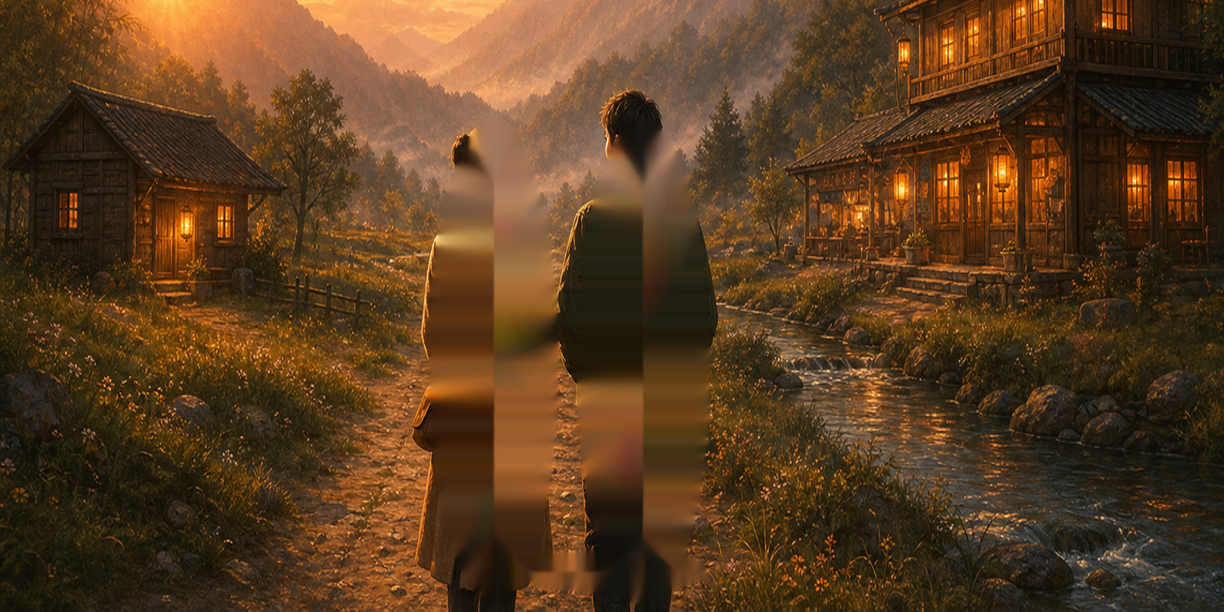
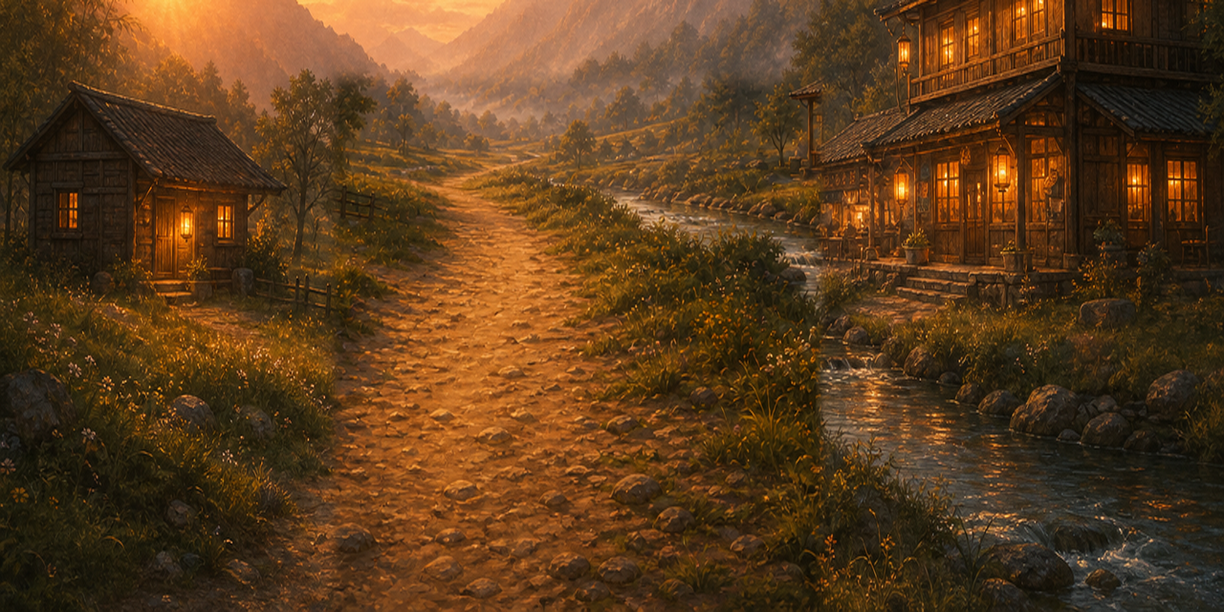
Replace the cover pair on the valley bed with path and grass.
The 302-crop still held the poster pair and scaled them into the play
frame. A person-shaped clone left ghosts and a stretched brown pillar.
Hard-fill one landscape corridor from a dusk path plate instead.

Changed region(s): [[0.2484, 0.1242, 0.683, 1.0]]

diff --git a/godot/project.test.ts b/godot/project.test.ts
@@ -232,6 +232,9 @@ test("Valley look is one dusk illustration, not DST stickers", () => {
   assert.match(bedPaint, /bed-valley/);
   assert.match(bedPaint, /CROP_Y0 = 302/);
   assert.match(bedPaint, /PATH_LO, PATH_HI/);
+  assert.match(bedPaint, /valley-path-fill/);
+  assert.match(bedPaint, /CORRIDOR_X0, CORRIDOR_X1/);
+  assert.ok(existsSync("tools/ref/valley-path-fill.png"));
   assert.doesNotMatch(bedPaint, /save\(.*cover-valley/);
   assert.doesNotMatch(bedPaint, /resize\(\(x1 - x0/);
   assert.doesNotMatch(valley, /floor-valley|ground-valley|_bend\(/);

diff --git a/tools/paint_valley_bed.py b/tools/paint_valley_bed.py
@@ -4,92 +4,66 @@ from __future__ import annotations
 
 from pathlib import Path
 
-import cv2
 import numpy as np
-from PIL import Image, ImageFilter
+from PIL import Image
 
 ROOT = Path(__file__).resolve().parents[1]
 COVER = ROOT / "godot/assets/art/cover-valley.png"
+FILL = ROOT / "tools/ref/valley-path-fill.png"
 OUT = ROOT / "godot/assets/art/bed-valley.png"
 
 # World size (TILE 36 × 34×17).
 W, H = 1224, 612
 # Below 并肩山谷 and 「两部 iPhone · 同一座山」. Lodge roof stays in frame.
 CROP_Y0 = 302
-# Same-row dirt path, left of the pair. Never a resized plate.
-PATH_LO, PATH_HI = 220, 448
+# Same-row dirt / grass used to grade the corridor. Never a resized plate.
+PATH_LO, PATH_HI = 220, 360
+BANK_LO, BANK_HI = 824, 940
+# One landscape hole. Not two people ellipses. Left of the coats, right of the bag.
+CORRIDOR_X0, CORRIDOR_X1 = 340, 868
+CORRIDOR_Y0 = 344
 
 
-def _people_mask(h: int, w: int) -> np.ndarray:
-    """Tight 暖 / 松 / 点灯进谷. Leave a path gap between the coats."""
-    yy, xx = np.ogrid[:h, :w]
-    warm = ((xx - 516) / 66.0) ** 2 + ((yy - 548) / 162.0) ** 2 <= 1.0
-    pine = ((xx - 672) / 68.0) ** 2 + ((yy - 550) / 164.0) ** 2 <= 1.0
-    bag = ((xx - 482) / 24.0) ** 2 + ((yy - 556) / 46.0) ** 2 <= 1.0
-    cta = ((xx - 640) / 96.0) ** 2 + ((yy - 692) / 13.0) ** 2 <= 1.0
-    return warm | pine | bag | cta
+def _smoothstep(t: np.ndarray) -> np.ndarray:
+    t = np.clip(t, 0.0, 1.0)
+    return t * t * (3.0 - 2.0 * t)
 
 
-def _dilate(mask: np.ndarray, radius: int = 2) -> np.ndarray:
-    img = Image.fromarray((mask.astype(np.uint8) * 255), "L")
-    img = img.filter(ImageFilter.MaxFilter(radius * 2 + 1))
-    return np.asarray(img) > 127
-
-
-def _safe_path(mask_row: np.ndarray, w: int) -> np.ndarray:
-    cols = [x for x in range(PATH_LO, min(PATH_HI, w)) if not mask_row[x]]
-    if len(cols) < 8:
-        cols = [x for x in range(180, min(PATH_HI, w)) if not mask_row[x]]
-    return np.asarray(cols, dtype=np.int32)
-
-
-def _runs(xs: np.ndarray) -> list[tuple[int, int]]:
-    out: list[tuple[int, int]] = []
-    start = int(xs[0])
-    prev = start
-    for raw in xs[1:]:
-        x = int(raw)
-        if x == prev + 1:
-            prev = x
-            continue
-        out.append((start, prev + 1))
-        start = x
-        prev = x
-    out.append((start, prev + 1))
-    return out
-
-
-def lift_cover(rgb: np.ndarray) -> np.ndarray:
-    """Same-y path seed, then NS inpaint. No resized plate, no Telea smear."""
+def lift_cover(rgb: np.ndarray, fill: np.ndarray) -> np.ndarray:
+    """Hard-replace the pair with dusk path/grass. Feather only into real land."""
+    out = rgb.astype(np.float32)
+    src = fill.astype(np.float32)
     h, w = rgb.shape[:2]
-    core = _dilate(_people_mask(h, w), 2)
-    seeded = rgb.copy()
-    for y in range(h):
-        bad = np.flatnonzero(core[y])
-        if bad.size == 0:
-            continue
-        safe = _safe_path(core[y], w)
-        for x0, x1 in _runs(bad):
-            width = x1 - x0
-            src0 = x0 - width
-            src1 = x0
-            if src0 >= 0 and not np.any(core[y, src0:src1]):
-                chunk = rgb[y, src0:src1].astype(np.float32)
-            elif safe.size >= width:
-                chunk = rgb[y, safe[-width:]].astype(np.float32)
-            elif safe.size:
-                t = np.linspace(0, safe.size - 1, width)
-                chunk = rgb[y, safe[np.round(t).astype(np.int32)]].astype(np.float32)
-            else:
-                continue
-            edge0 = max(0, x0 - 10)
-            border = rgb[y, edge0:x0].astype(np.float32)
-            if border.size:
-                chunk = chunk - chunk.mean(axis=0) + border.mean(axis=0)
-            seeded[y, x0:x1] = np.clip(chunk, 0, 255).astype(np.uint8)
-    hole = (core.astype(np.uint8) * 255)
-    out = cv2.inpaint(seeded, hole, 7, cv2.INPAINT_NS)
-    return out
+    x0, x1 = CORRIDOR_X0, CORRIDOR_X1
+    y0, y1 = CORRIDOR_Y0, h
+    roi = src[y0:y1, x0:x1]
+    ring = np.concatenate(
+        [
+            rgb[y0:y1, PATH_LO:PATH_HI].reshape(-1, 3),
+            rgb[y0:y1, BANK_LO:BANK_HI].reshape(-1, 3),
+            rgb[max(0, y0 - 16) : y0, x0:x1].reshape(-1, 3),
+        ],
+        axis=0,
+    )
+    edge = np.concatenate(
+        [
+            roi[:, :16].reshape(-1, 3),
+            roi[:, -16:].reshape(-1, 3),
+            roi[:12].reshape(-1, 3),
+        ],
+        axis=0,
+    )
+    roi = np.clip(roi + (np.median(ring, axis=0) - np.median(edge, axis=0)), 0, 255)
+    placed = out.copy()
+    placed[y0:y1, x0:x1] = roi
+    yy, xx = np.ogrid[y0:y1, x0:x1]
+    alpha = np.ones((y1 - y0, x1 - x0), np.float32)
+    alpha *= _smoothstep((xx - x0) / 18.0)
+    alpha *= _smoothstep((x1 - 1 - xx) / 18.0)
+    alpha *= _smoothstep((yy - y0) / 22.0)
+    alpha = alpha[..., None]
+    out[y0:y1, x0:x1] = placed[y0:y1, x0:x1] * alpha + rgb[y0:y1, x0:x1] * (1.0 - alpha)
+    return np.clip(out, 0, 255).astype(np.uint8)
 
 
 def compose(clean: np.ndarray) -> Image.Image:
@@ -103,8 +77,12 @@ def main() -> None:
     cover = Image.open(COVER)
     if cover.size != (1280, 720):
         raise SystemExit(f"cover must stay 1280x720, got {cover.size}")
+    fill = Image.open(FILL)
+    if fill.size != (1280, 720) or fill.mode != "RGB":
+        raise SystemExit(f"path fill must be 1280x720 RGB, got {fill.size} {fill.mode}")
     rgb = np.asarray(cover.convert("RGB"))
-    bed = compose(lift_cover(rgb))
+    plate = np.asarray(fill.convert("RGB"))
+    bed = compose(lift_cover(rgb, plate))
     if bed.size != (W, H) or bed.mode != "RGB":
         raise SystemExit(f"bed must be {W}x{H} RGB, got {bed.size} {bed.mode}")
     OUT.parent.mkdir(parents=True, exist_ok=True)

diff --git a/production/qa/evidence/packed-bed-evidence.md b/production/qa/evidence/packed-bed-evidence.md
@@ -7,7 +7,7 @@
 ## What changed
 
 - Graph: `godot/scenes/play.tscn` → `godot/scenes/valley.tscn` (`ValleyWorld` + `Bed` + `ValleyLogic`)
-- Look: `godot/assets/art/bed-valley.png` 1224×612 RGB from the cover. Title cropped at `CROP_Y0 = 302`. Baked 暖/松 / 点灯进谷 lifted with same-y path seed + NS inpaint (no resized dirt plate, no Telea).
+- Look: `godot/assets/art/bed-valley.png` 1224×612 RGB from the cover. Title cropped at `CROP_Y0 = 302`. Cover pair / 点灯进谷 hard-replaced by a dusk path-and-grass plate (`tools/ref/valley-path-fill.png`) in one landscape corridor. Edges feather only into real path, stream, and hills — not into coats. No person-shaped hole, no 1px column, no Telea smear.
 - Play valley: no hung `prop-tuft` / `prop-bush`. Atlas hidden when `_zone == "valley"`.
 - Actors: larger under-foot contact shadow. `person_mat` edge 0 so feet are not eaten.
 - Torn out: `godot/scripts/valley_map.gd` sticker stamps.
@@ -16,9 +16,10 @@
 
 | What Brainbird saw | Source | Fix |
 |---|---|---|
-| Semi-transparent mounds + wrong-scale pillar | `ValleyLogic.show_crops` → `Look.hung(prop-tuft/prop-bush)` + dusk edge + contact ellipses | `show_crops` still walks plots; does not add sprites |
-| Floating mosaic brown block | `play.gd` `_paint_atlas` on valley tiles (34×17, cell 4) | `_atlas.visible = false` when zone is valley |
-| Title 「两部 iPhone」 + dirt plate | `paint_valley_bed.py` crop y=218 + resized pair plate | Crop 302; 1:1 path clone |
+| Semi-transparent mounds + wrong-scale pillar | `ValleyLogic.show_crops` → hung tuft/bush (earlier); then person-shaped path clone + NS inpaint | Crops still walk plots; no sprites. Bed no longer clones a coat-shaped hole |
+| Floating mosaic brown block | `play.gd` `_paint_atlas` on valley tiles | `_atlas.visible = false` when zone is valley |
+| Title 「两部 iPhone」 + dirt plate | crop y=218 + resized pair plate | Crop 302; corridor plate, not a resized plate |
+| Giant translucent cover pair + stretched brown pillar | Crop kept the poster pair and scaled 418→612; tight ellipses + same-y column fill | One landscape corridor; hard path/grass replace; no column stretch |
 | Feet not in the path | Small east-only `Look.contact(BODY * 0.45)` | Wider stain under the feet; shader edge 0 |
 
 FAIL `prop-cover-*` / `prop-hut` / `prop-lodge` were not put back.
@@ -36,11 +37,12 @@ FAIL `prop-cover-*` / `prop-hut` / `prop-lodge` were not put back.
 | Crops / ROWS | `show_crops` + `prop-tuft` / `prop-bush` names; no `Look.hung` |
 | Valley atlas | hidden |
 | Contact shadow | `ActorView` uses `Look.contact` + `SHADOW_EAST` under the feet |
+| Bed is landscape | cover pair / title / CTA not in the play sheet |
 
 ## Manual
 
-Enter camera: one dusk painting, live `char-warm` / `char-pine` on the path with a foot stain, wood HUD. No crop mounds, no atlas mosaic, no title calligraphy, no FAIL stickers.
+Enter camera: one dusk painting (hut, path, stream, lodge), live `char-warm` / `char-pine` on the path with a foot stain, wood HUD. No crop mounds, no atlas mosaic, no title calligraphy, no giant cover pair, no brown pillar, no FAIL stickers.
 
 ## Sign-off
 
-`/team-polish` lean (director spawn skipped). Visual/Feel evidence for `/story-done`.
+`/team-polish` lean (director spawn skipped). Visual/Feel evidence. `/story-done` waits on Brainbird's next enter-frame sentence.

diff --git a/production/session-state/active.md b/production/session-state/active.md
@@ -1,14 +1,15 @@
 # Session state
 
 - Task: `/team-polish` the packed valley bed (PR #2)
-- Status: Polish implemented — enter camera must be one painting + people + HUD
+- Status: Bed corridor is landscape-only — wait for Brainbird's real-device enter frame
 - Review: lean (no chat gates; director/agent spawn skipped)
-- Files: `valley_logic.gd`, `play.gd`, `actor_view.gd`, `look.gd`, `tools/paint_valley_bed.py`, `bed-valley.png`
-- Next: wait for Brainbird. `/story-done` only after they confirm the enter frame is one painting + people + HUD
+- Files: `tools/paint_valley_bed.py`, `tools/ref/valley-path-fill.png`, `bed-valley.png`, `valley_logic.gd`, `play.gd`, `actor_view.gd`, `look.gd`
+- Next: wait for Brainbird. `/story-done` only after they confirm the enter frame is one clean dusk landscape + live coats + HUD
 
 ## Session Extract — /team-polish 2026-08-15
 
 - Area: painted valley bed
-- Dirt sources: hung crops (mounds/pillar), valley atlas (mosaic block), bed plate + title crop, tiny foot shadow
+- Dirt sources: hung crops, valley atlas, title crop, then cover pair left in the 302-crop and enlarged; person-shaped fill made ghosts + a brown pillar
+- This knife: one landscape corridor; hard path/grass replace; title still cropped at 302
 - FAIL stickers: not restored
-- Next: headless enter shot, then story-done if the frame is only bed + coats + HUD
+- Next: headless enter shot for the agent; story-done only after Brainbird's next sentence

diff --git a/production/epics/r1-painted-valley/story-001-packed-bed.md b/production/epics/r1-painted-valley/story-001-packed-bed.md
@@ -35,7 +35,7 @@
 
 ## Implementation Notes
 
-From ADR-0001 / ADR-0003: packed scene graph; `tools/paint_valley_bed.py` writes only the bed; same-y 1:1 path clone under baked people; crop title at y=302. Delete sticker `valley_map.gd`. Headless uses `ValleyWorld`. `/team-polish`: no hung crops on the bed, hide valley atlas, stronger foot stain.
+From ADR-0001 / ADR-0003: packed scene graph; `tools/paint_valley_bed.py` writes only the bed; crop title at y=302; lift the cover pair with one landscape corridor (path/grass plate), not a person-shaped clone. Delete sticker `valley_map.gd`. Headless uses `ValleyWorld`. `/team-polish`: no hung crops, hide valley atlas, no giant cover pair on the bed.
 
 ## Out of Scope
 
@@ -59,7 +59,7 @@ From ADR-0001 / ADR-0003: packed scene graph; `tools/paint_valley_bed.py` writes
 
 **Story Type**: Visual/Feel
 **Required evidence**: `production/qa/evidence/packed-bed-evidence.md` + `godot/project.test.ts`
-**Status**: [x] polish pass — enter shot must be one painting + people + HUD
+**Status**: [x] polish pass — enter shot must be one clean dusk landscape + live coats + HUD; story-done waits on Brainbird
 
 ## Dependencies
 
